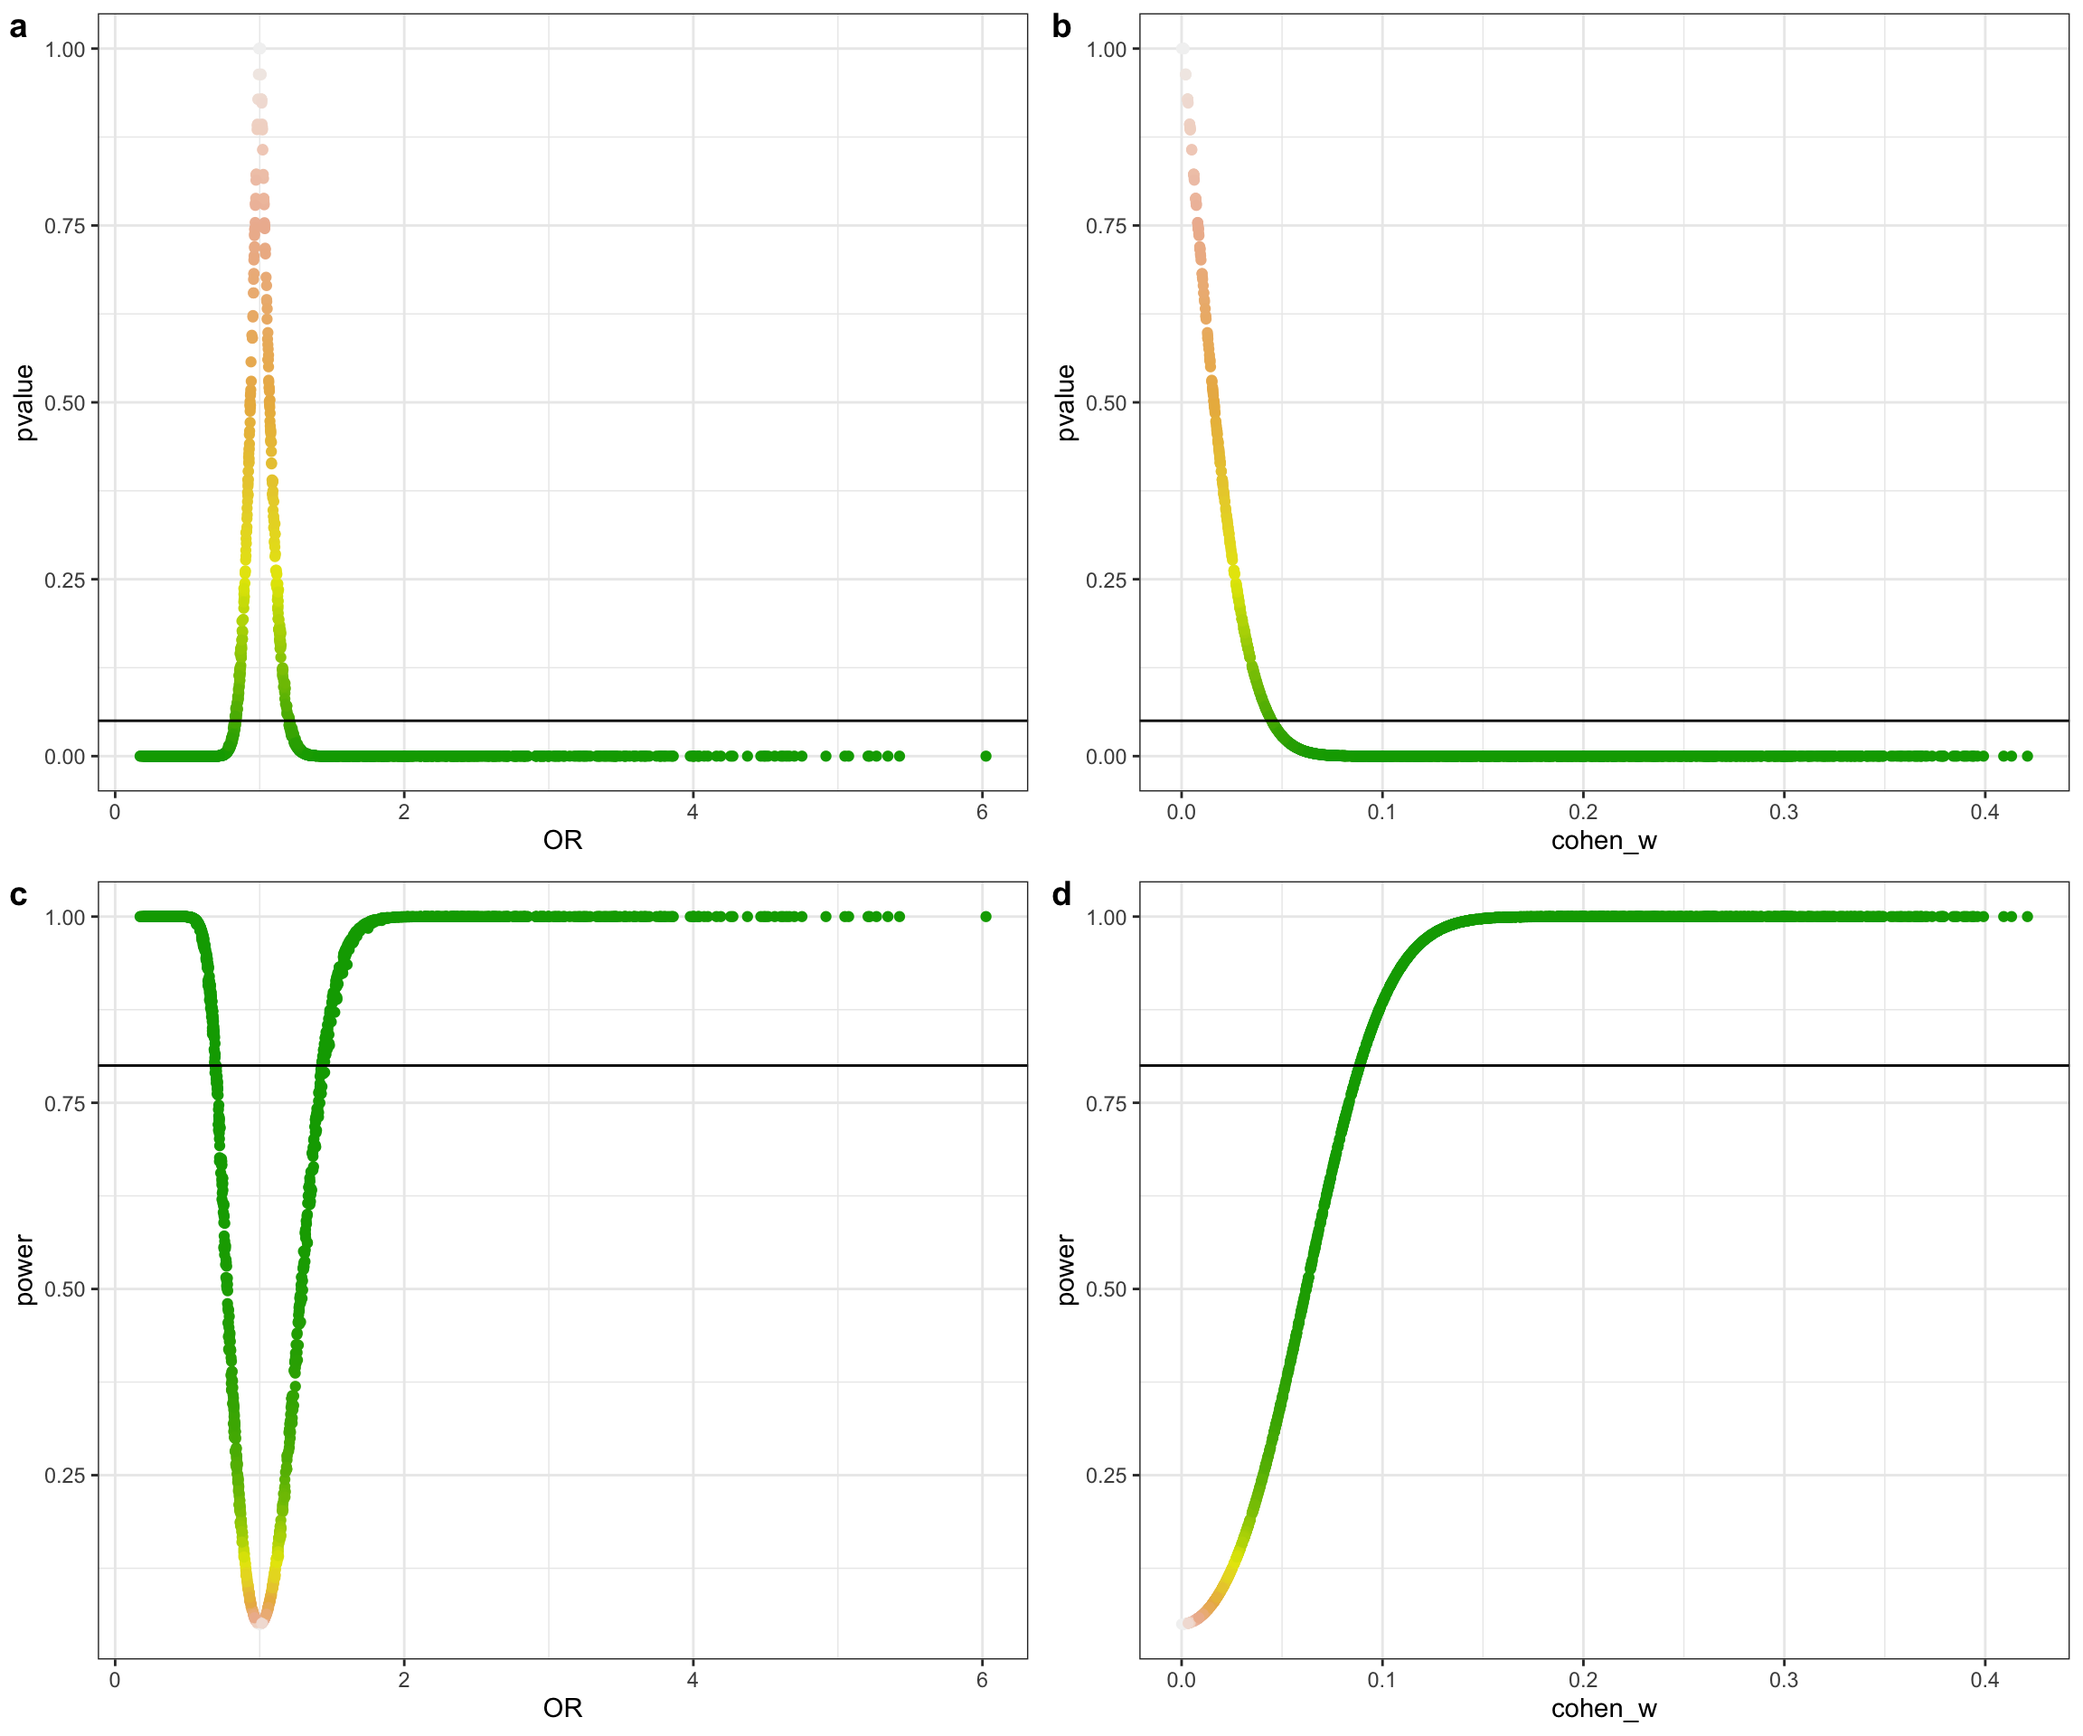
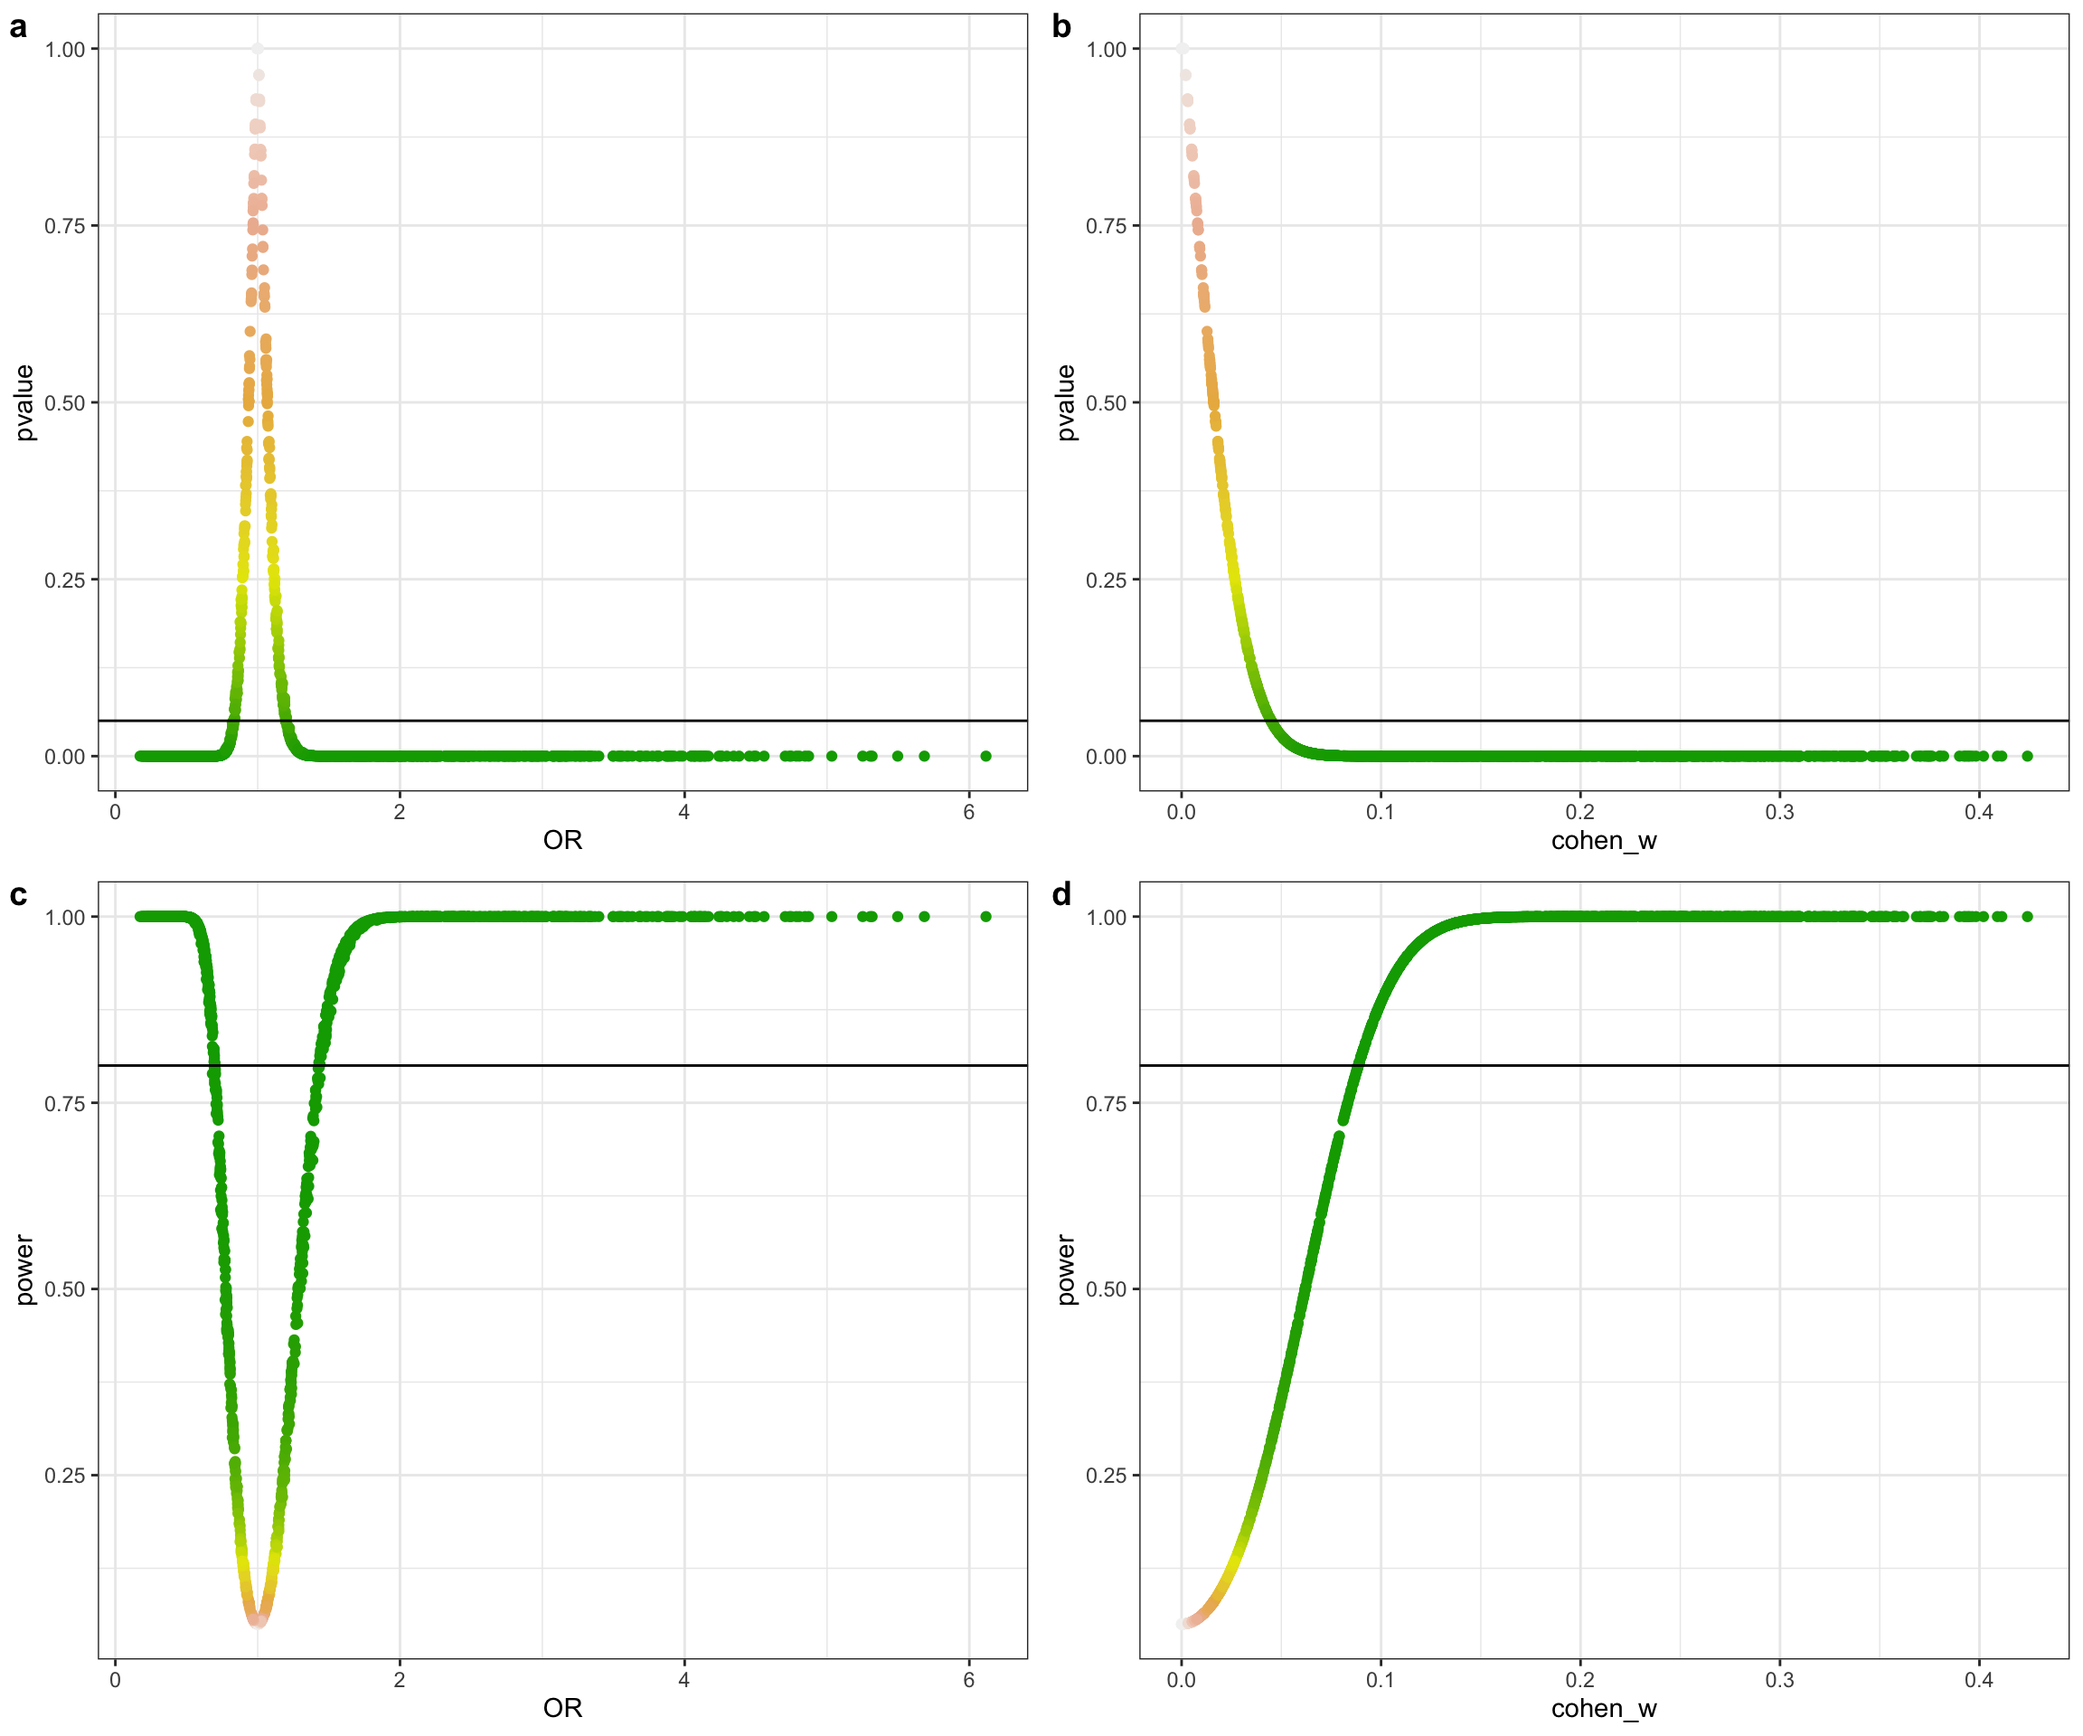
New blog post, post-hoc power

diff --git a/content/post/2020-01-04-playing-with-post-hoc-power-with-r-why-you-shouldn-t-do-it.html b/content/post/2020-01-04-playing-with-post-hoc-power-with-r-why-you-shouldn-t-do-it.html
@@ -208,40 +208,40 @@ power_against_pvalue_extractor &lt;- function(power_versus_pvalue, extracted=NUL
    [1] 1000
    
    $w
-   [1] 0.02100177
+   [1] 0.02200744
    
    $power
-   [1] 0.101861
+   [1] 0.1070649
    
    $p_value
-   [1] 0.3710529
+   [1] 0.3474915
    
    $OR
-   [1] 1.087658
+   [1] 1.092069
    
    $observed_counts
             
              A=exposed G=unexposed
-     case          517         483
-     control       496         504
+     case          524         476
+     control       502         498
    
    $expected_counts
             
              A=exposed G=unexposed
-     case        506.5       493.5
-     control     506.5       493.5
+     case          513         487
+     control       513         487
    
    $observed_proportions
             
              A=exposed G=unexposed
-     case       0.2585      0.2415
-     control    0.2480      0.2520
+     case        0.262       0.238
+     control     0.251       0.249
    
    $expected_proportions
             
              A=exposed G=unexposed
-     case      0.25325     0.24675
-     control   0.25325     0.24675</code></pre>
+     case       0.2565      0.2435
+     control    0.2565      0.2435</code></pre>
 <p>And now we can map this function to all the combinations of proportions we had stored in our data frame (using the wonderful <code>purrr</code> package):</p>
 <pre class="r"><code>mydata &lt;- mydata0 %&gt;%
    # calculate
@@ -289,13 +289,13 @@ OR
 0.3
 </td>
 <td style="text-align:center;">
-0.0809998
+0.1539052
 </td>
 <td style="text-align:center;">
-0.4959449
+0.2043429
 </td>
 <td style="text-align:center;">
-0.9314893
+1.137417
 </td>
 </tr>
 <tr>
@@ -306,13 +306,13 @@ OR
 0.3
 </td>
 <td style="text-align:center;">
-0.1411062
+0.0900598
 </td>
 <td style="text-align:center;">
-0.2352425
+0.4360508
 </td>
 <td style="text-align:center;">
-1.1301582
+1.083923
 </td>
 </tr>
 <tr>
@@ -323,13 +323,13 @@ OR
 0.3
 </td>
 <td style="text-align:center;">
-0.0694937
+0.0505232
 </td>
 <td style="text-align:center;">
-0.5948442
+0.9618922
 </td>
 <td style="text-align:center;">
-0.9454387
+1.009173
 </td>
 </tr>
 </tbody>
@@ -364,19 +364,53 @@ OR
 <tbody>
 <tr>
 <td style="text-align:center;">
-0.36
+0.34
 </td>
 <td style="text-align:center;">
-0.33
+0.35
 </td>
 <td style="text-align:center;">
-0.2938985
+0.2944971
 </td>
 <td style="text-align:center;">
-0.0503292
+0.0500466
 </td>
 <td style="text-align:center;">
-1.205523
+0.8291318
+</td>
+</tr>
+<tr>
+<td style="text-align:center;">
+0.54
+</td>
+<td style="text-align:center;">
+0.48
+</td>
+<td style="text-align:center;">
+0.2960841
+</td>
+<td style="text-align:center;">
+0.0490653
+</td>
+<td style="text-align:center;">
+1.1974256
+</td>
+</tr>
+<tr>
+<td style="text-align:center;">
+0.56
+</td>
+<td style="text-align:center;">
+0.48
+</td>
+<td style="text-align:center;">
+0.2961665
+</td>
+<td style="text-align:center;">
+0.0490272
+</td>
+<td style="text-align:center;">
+1.1974984
 </td>
 </tr>
 </tbody>

diff --git a/docs/2020/01/playing-with-post-hoc-power/index.html b/docs/2020/01/playing-with-post-hoc-power/index.html
@@ -495,40 +495,40 @@ power_against_pvalue_extractor &lt;- function(power_versus_pvalue, extracted=NUL
    [1] 1000
    
    $w
-   [1] 0.02100177
+   [1] 0.02200744
    
    $power
-   [1] 0.101861
+   [1] 0.1070649
    
    $p_value
-   [1] 0.3710529
+   [1] 0.3474915
    
    $OR
-   [1] 1.087658
+   [1] 1.092069
    
    $observed_counts
             
              A=exposed G=unexposed
-     case          517         483
-     control       496         504
+     case          524         476
+     control       502         498
    
    $expected_counts
             
              A=exposed G=unexposed
-     case        506.5       493.5
-     control     506.5       493.5
+     case          513         487
+     control       513         487
    
    $observed_proportions
             
              A=exposed G=unexposed
-     case       0.2585      0.2415
-     control    0.2480      0.2520
+     case        0.262       0.238
+     control     0.251       0.249
    
    $expected_proportions
             
              A=exposed G=unexposed
-     case      0.25325     0.24675
-     control   0.25325     0.24675</code></pre>
+     case       0.2565      0.2435
+     control    0.2565      0.2435</code></pre>
 <p>And now we can map this function to all the combinations of proportions we had stored in our data frame (using the wonderful <code>purrr</code> package):</p>
 <pre class="r"><code>mydata &lt;- mydata0 %&gt;%
    # calculate
@@ -576,13 +576,13 @@ OR
 0.3
 </td>
 <td style="text-align:center;">
-0.0809998
+0.1539052
 </td>
 <td style="text-align:center;">
-0.4959449
+0.2043429
 </td>
 <td style="text-align:center;">
-0.9314893
+1.137417
 </td>
 </tr>
 <tr>
@@ -593,13 +593,13 @@ OR
 0.3
 </td>
 <td style="text-align:center;">
-0.1411062
+0.0900598
 </td>
 <td style="text-align:center;">
-0.2352425
+0.4360508
 </td>
 <td style="text-align:center;">
-1.1301582
+1.083923
 </td>
 </tr>
 <tr>
@@ -610,13 +610,13 @@ OR
 0.3
 </td>
 <td style="text-align:center;">
-0.0694937
+0.0505232
 </td>
 <td style="text-align:center;">
-0.5948442
+0.9618922
 </td>
 <td style="text-align:center;">
-0.9454387
+1.009173
 </td>
 </tr>
 </tbody>
@@ -651,19 +651,53 @@ OR
 <tbody>
 <tr>
 <td style="text-align:center;">
-0.36
+0.34
 </td>
 <td style="text-align:center;">
-0.33
+0.35
 </td>
 <td style="text-align:center;">
-0.2938985
+0.2944971
 </td>
 <td style="text-align:center;">
-0.0503292
+0.0500466
 </td>
 <td style="text-align:center;">
-1.205523
+0.8291318
+</td>
+</tr>
+<tr>
+<td style="text-align:center;">
+0.54
+</td>
+<td style="text-align:center;">
+0.48
+</td>
+<td style="text-align:center;">
+0.2960841
+</td>
+<td style="text-align:center;">
+0.0490653
+</td>
+<td style="text-align:center;">
+1.1974256
+</td>
+</tr>
+<tr>
+<td style="text-align:center;">
+0.56
+</td>
+<td style="text-align:center;">
+0.48
+</td>
+<td style="text-align:center;">
+0.2961665
+</td>
+<td style="text-align:center;">
+0.0490272
+</td>
+<td style="text-align:center;">
+1.1974984
 </td>
 </tr>
 </tbody>
